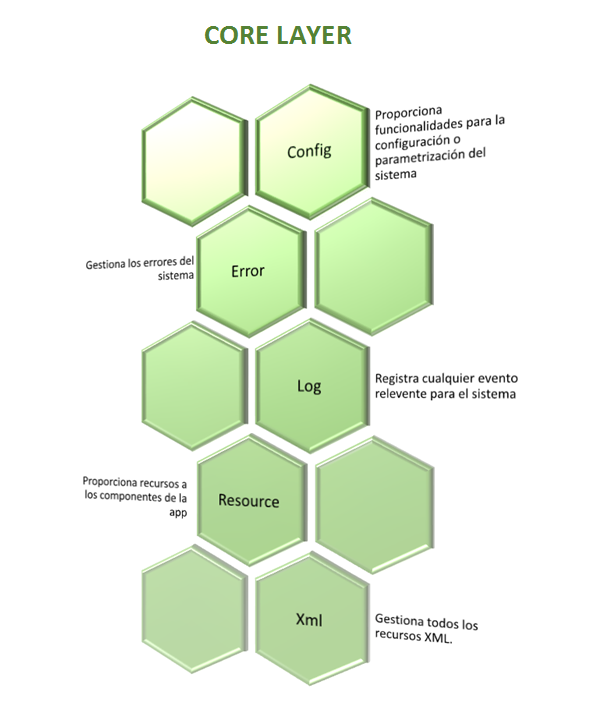
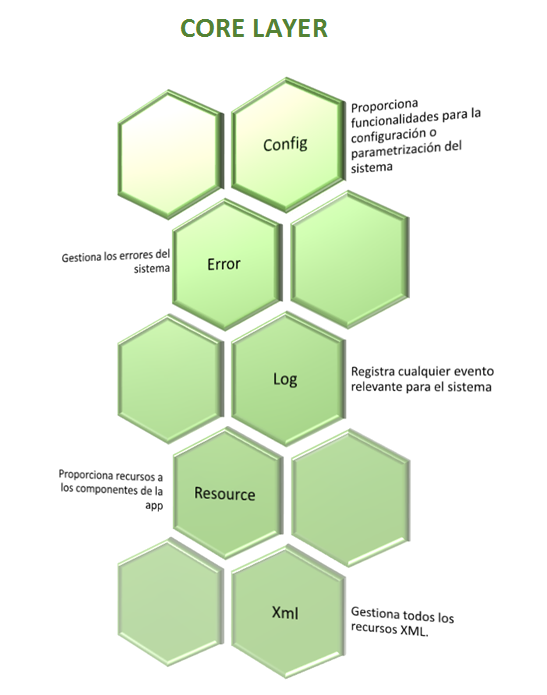
Documentación corrección imagenes core y util

diff --git a/util/README.md b/util/README.md
@@ -2,7 +2,7 @@
 Framework para construcción de aplicaciones Java EE 7
 
 ## Util Stack ##
-Contiene clases para simplificar el uso de cadenas, objeto tipo fecha, además de clases que facilitan la gestión de archivos, carpetas, properties, inputstream entre otros.
+Contiene clases que simplifican el uso de cadenas, objeto tipo fecha, además de componentes que facilitan la gestión de archivos, carpetas, objetos properties, inputstream entre otros.
 
 
 ![Util Stack](https://github.com/jencisopy/JavaBeanStack/blob/master/util/src/main/resources/images/javabeanstack_util.png)
